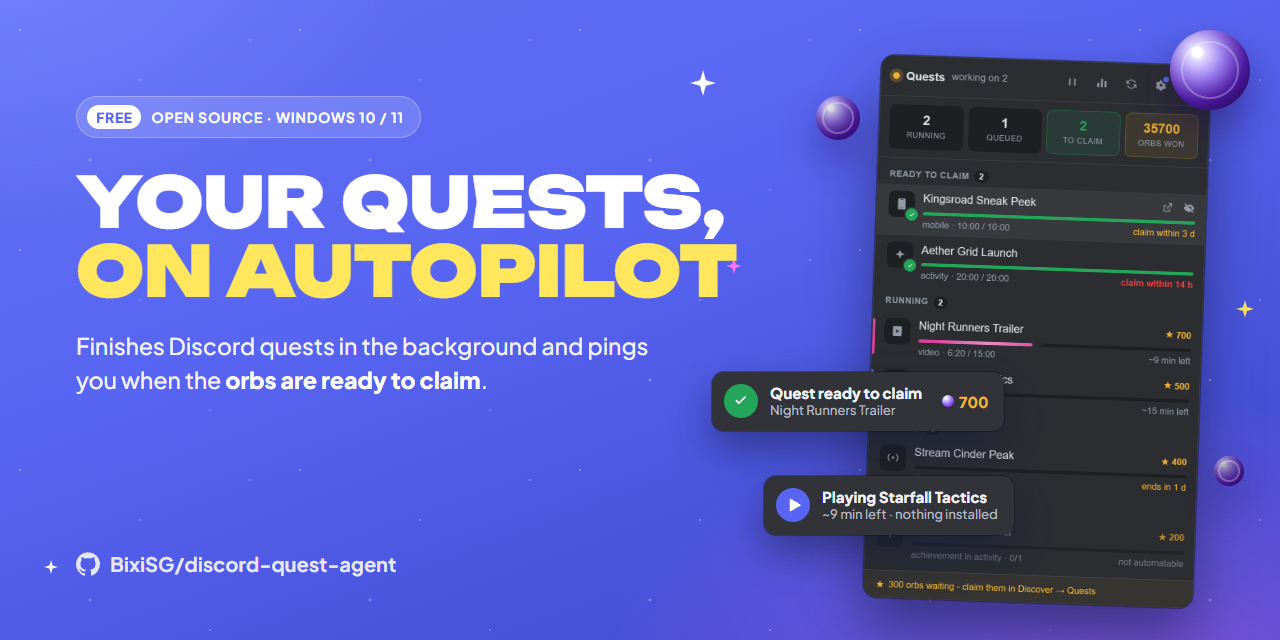
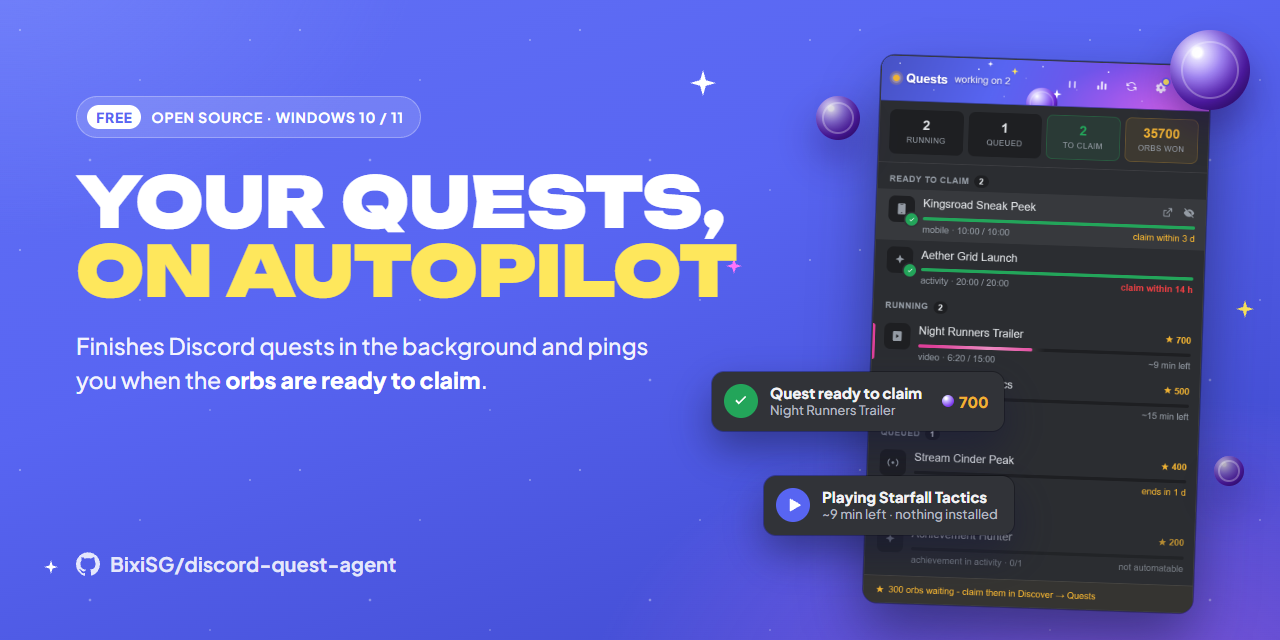
HUD: starry blurple header band (agent v25)
The panel header gets a Discord-style backdrop: a blurple-to-violet
gradient with an inline SVG starfield, sparkles, a pink glow and a glossy
orb that drifts behind the status line. Title, status, buttons and the
unread dot are restyled to read on it in both themes; the orb's drift
stops under prefers-reduced-motion. HUD captures and the README banner
and social card are re-rendered with the new header.

diff --git a/src/quest-agent.js b/src/quest-agent.js
@@ -31,7 +31,7 @@
  */
 (async () => {
     "use strict";
-    const AGENT_VERSION = 24;
+    const AGENT_VERSION = 25;
 
     if (window.__questAgent && !window.__questAgentForce) {
         console.log(`[QuestAgent] Agent v${window.__questAgent.version} already running - skipping.`);
@@ -1237,6 +1237,8 @@
         <g class="qb-a-orb"><path class="qb-a7" d="M140 16l11 13-11 13-11-13z"/><path class="qb-a8" d="M140 21l6.5 8-6.5 8z"/></g>
         <text class="qb-az" x="152" y="15">z</text><text class="qb-az qb-az2" x="159" y="8">z</text>
       </svg>`;
+    /** The panel header's backdrop: a starry blurple band with an orb rising behind the status line. */
+    const HEAD_ART = `<svg class="qb-hart" viewBox="0 0 400 54" preserveAspectRatio="xMidYMid slice" aria-hidden="true"><defs><radialGradient id="qb-hg-orb" cx=".34" cy=".28" r=".8"><stop offset="0" stop-color="#fff"/><stop offset=".1" stop-color="#e3dcff"/><stop offset=".38" stop-color="#a78bfa"/><stop offset=".72" stop-color="#6d28d9"/><stop offset="1" stop-color="#2e1065"/></radialGradient><radialGradient id="qb-hg-glow"><stop offset="0" stop-color="#ff73fa" stop-opacity=".5"/><stop offset="1" stop-color="#ff73fa" stop-opacity="0"/></radialGradient></defs><ellipse cx="350" cy="54" rx="150" ry="58" fill="url(#qb-hg-glow)"/><g fill="#fff"><circle cx="22" cy="9" r="0.9" opacity="0.8"/><circle cx="64" cy="40" r="0.7" opacity="0.6"/><circle cx="118" cy="13" r="1" opacity="0.8"/><circle cx="98" cy="31" r="0.6" opacity="0.5"/><circle cx="150" cy="45" r="0.7" opacity="0.6"/><circle cx="176" cy="22" r="0.6" opacity="0.5"/><circle cx="196" cy="7" r="0.9" opacity="0.8"/><circle cx="238" cy="34" r="0.6" opacity="0.5"/><circle cx="276" cy="11" r="1" opacity="0.9"/><circle cx="318" cy="45" r="0.7" opacity="0.6"/><circle cx="352" cy="8" r="0.9" opacity="0.8"/><circle cx="386" cy="31" r="0.7" opacity="0.6"/></g><path fill="#fff" d="M214 34l1.32 4.68 4.68 1.32-4.68 1.32-1.32 4.68-1.32-4.68-4.68-1.32 4.68-1.32z"/><path fill="#fee75c" d="M162 9.5l0.99 3.51 3.51 0.99-3.51 0.99-0.99 3.51-0.99-3.51-3.51-0.99 3.51-0.99z"/><path fill="#fff" d="M132 2.5l0.77 2.73 2.73 0.77-2.73 0.77-0.77 2.73-0.77-2.73-2.73-0.77 2.73-0.77z"/><g class="qb-horb"><circle cx="196" cy="50" r="19" fill="url(#qb-hg-orb)"/><circle cx="196" cy="50" r="14" fill="none" stroke="#fff" stroke-opacity=".28" stroke-width="1.5"/></g></svg>`;
     /** Sparks that fly off a reward's tile the moment it becomes claimable. */
     const BURST = `<span class="qb-burst" aria-hidden="true">${[0, 45, 90, 135, 180, 225, 270, 315].map(a => `<i style="--a:${a}deg"></i>`).join("")}</span>`;
     /** 380 -> "6:20", 3725 -> "1:02:05". */
@@ -1346,8 +1348,23 @@
 #qb-panel *{box-sizing:border-box}
 #qb-panel button{font:inherit;color:inherit;background:none;border:0;padding:0;margin:0;cursor:pointer}
 @keyframes qb-in{from{opacity:0;transform:translateY(-8px) scale(.97)}to{opacity:1;transform:none}}
-#qb-panel .qb-head{display:flex;align-items:center;gap:8px;padding:10px 10px 10px 14px;cursor:grab;
- border-bottom:1px solid var(--qb-border);user-select:none}
+#qb-panel .qb-head{position:relative;isolation:isolate;overflow:hidden;display:flex;align-items:center;gap:8px;padding:13px 10px 13px 14px;cursor:grab;
+ user-select:none;color:#fff;border-bottom:1px solid rgba(0,0,0,.28);
+ background:linear-gradient(112deg,#4752c4 0%,#5865f2 36%,#7650e8 70%,#a24bd8 100%)}
+#qb-panel .qb-head>*{position:relative;z-index:1}
+#qb-panel .qb-head .qb-hart{position:absolute;inset:0;z-index:0;width:100%;height:100%;pointer-events:none}
+#qb-panel .qb-head .qb-horb{animation:qb-rise 6s ease-in-out infinite alternate}
+@keyframes qb-rise{from{transform:translateY(2px)}to{transform:translateY(-3px)}}
+#qb-panel .qb-head .qb-title{color:#fff;font-weight:700;font-size:15px;text-shadow:0 1px 2px rgba(20,10,80,.35)}
+#qb-panel .qb-head .qb-status{color:rgba(255,255,255,.82);text-shadow:0 1px 2px rgba(20,10,80,.45)}
+#qb-panel .qb-head .qb-status.qb-paused{color:#fee75c}
+#qb-panel .qb-head .qb-dot{background:rgba(255,255,255,.6);box-shadow:0 0 0 2px rgba(255,255,255,.22)}
+#qb-panel .qb-head .qb-act{color:rgba(255,255,255,.84)}
+#qb-panel .qb-head .qb-act:hover{color:#fff;background:rgba(255,255,255,.18)}
+#qb-panel .qb-head .qb-act.qb-on{color:#fff;background:rgba(255,255,255,.26)}
+#qb-panel .qb-head .qb-act.qb-warn{color:#fee75c}
+#qb-panel .qb-head .qb-nd{background:#fee75c;box-shadow:0 0 0 2px #6a57ec}
+#qb-panel .qb-head button:focus-visible{outline-color:#fff}
 #qb-panel .qb-head.qb-drag{cursor:grabbing}
 #qb-panel .qb-dot{position:relative;width:8px;height:8px;border-radius:50%;flex:none;background:var(--qb-muted)}
 /* pulse ring: transform + opacity only, so it never repaints the panel */
@@ -2066,7 +2083,7 @@
         p.setAttribute("aria-label", t("btn.label"));
         UI.lang = currentLang();
         p.innerHTML = `
-          <div class="qb-head">
+          <div class="qb-head">${HEAD_ART}
             <span class="qb-dot"></span><span class="qb-title">${esc(t("title.quests"))}</span>
             <span class="qb-status"></span>
             <button class="qb-act" id="qb-pauseall" title="${esc(t("head.pauseAll"))}">${svg(ICON.pause, "", 15)}</button>

diff --git a/CHANGELOG.md b/CHANGELOG.md
@@ -6,6 +6,7 @@ below it, no nested lists. Markdown links and emphasis are stripped in the panel
 
 ## 1.12.1 - 2026-10-24
 
+- The panel header is now a starry blurple band with an orb rising behind the status line, in both themes.
 - The empty quest list has a small illustration instead of a lone icon, and a reward that turns claimable while the panel is open sends a little burst of sparks off its tile. Both stay still when Windows animations are off.
 
 ## 1.12.0 - 2026-10-24
